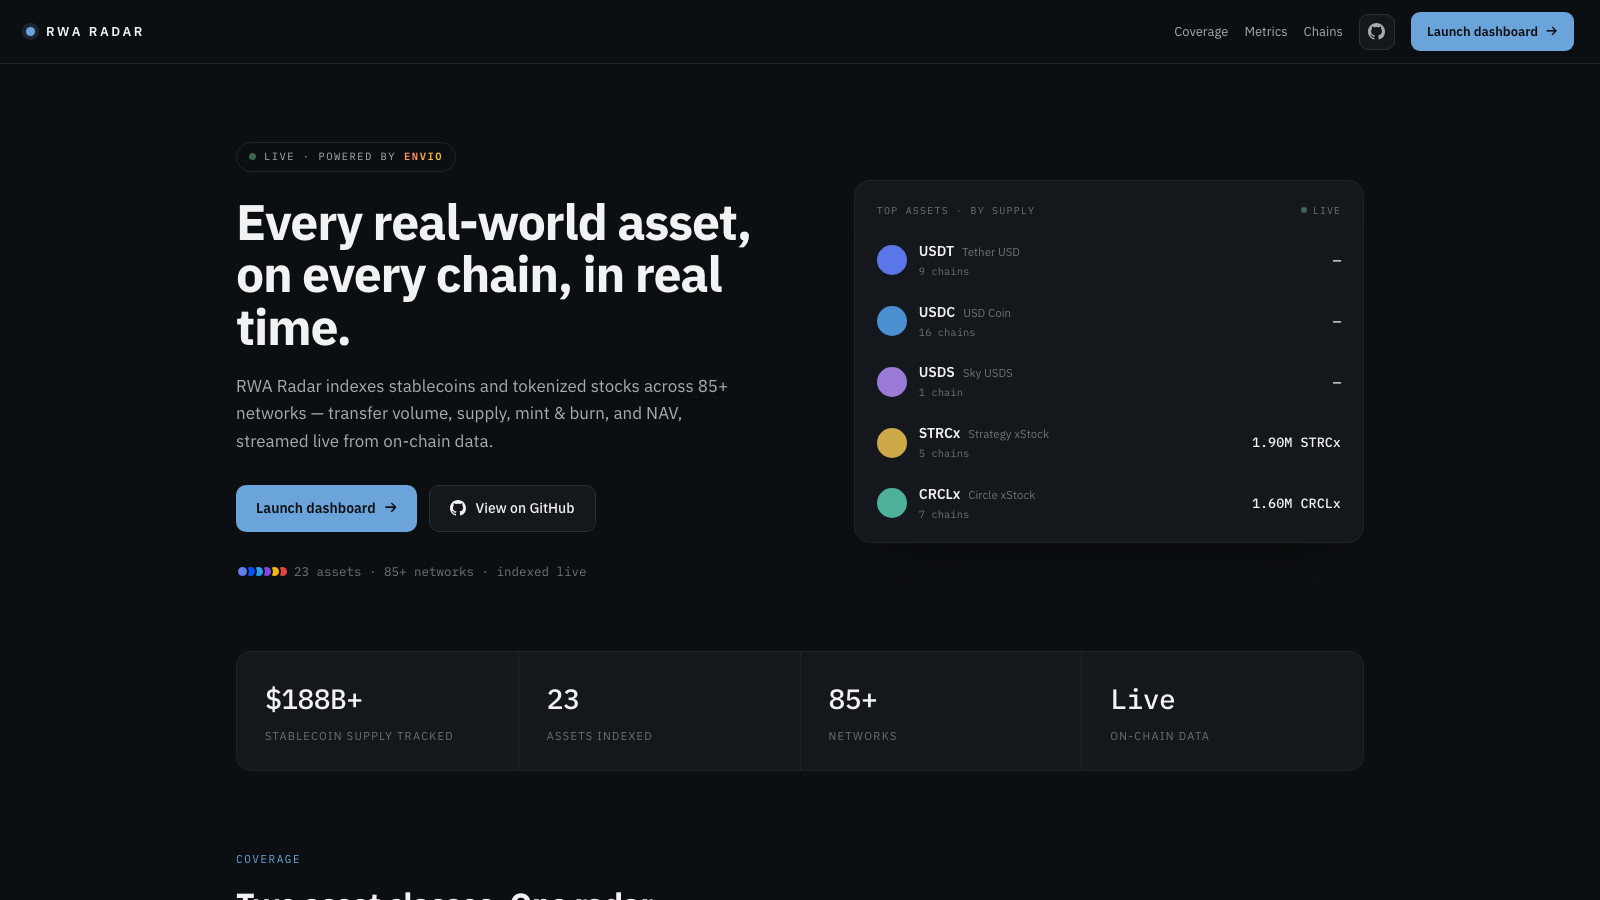
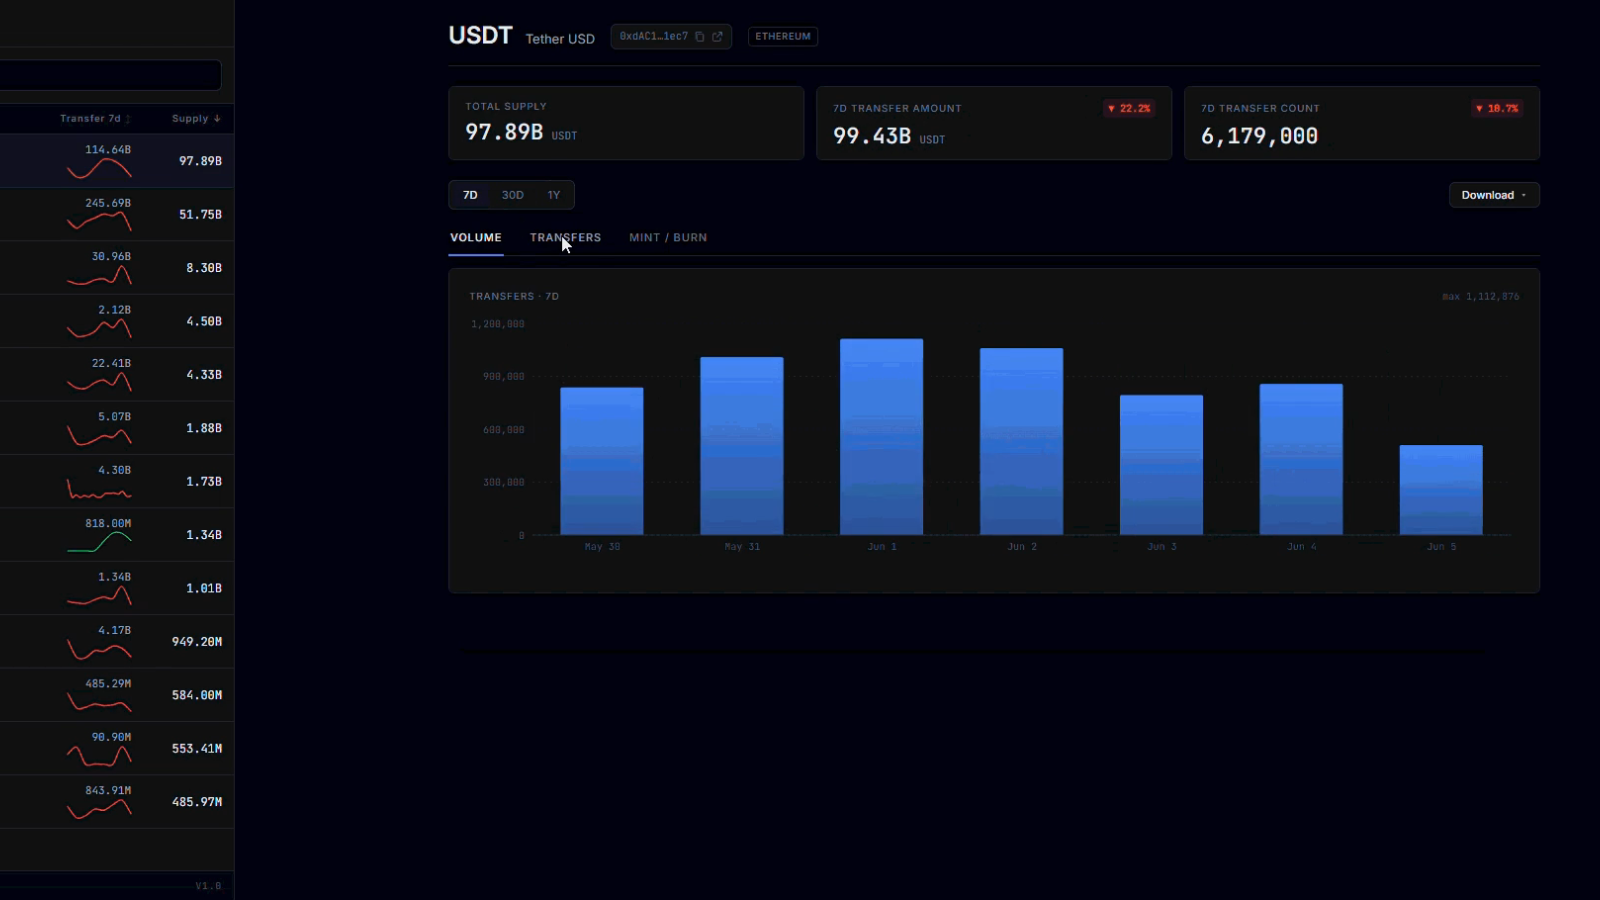
style(social): show the showcase asset alone on entry cards
Drops the logo and scrim so the card is exactly the asset the entry
displays on its page, and replaces the video posters with frames taken
from those videos rather than fresh screenshots of the live sites.

diff --git a/scripts/generate-showcase-og-images.js b/scripts/generate-showcase-og-images.js
@@ -12,9 +12,9 @@
  * referenced by src/pages/showcase/index.js. Entry slugs are restricted to
  * [a-z0-9-] below, so the leading underscore cannot collide with a real entry.
  *
- * Each card shows that entry's own showcase asset, cropped to the 1200x630 OG
- * frame with a small Envio logo over a bottom scrim, so a shared /showcase/<slug>
- * link unfurls as the project itself rather than as generic branding.
+ * Each card is that entry's own showcase asset cropped to the 1200x630 OG frame,
+ * with no branding over it, so a shared /showcase/<slug> link unfurls as the
+ * project itself rather than as generic Envio branding.
  *
  * Animated gifs are flattened to their first frame, since no social platform
  * unfurls an animation. Video entries (webm/mp4) cannot be sampled at build time
@@ -89,11 +89,6 @@ const DESC_MAX_LINES = 3;
 // stays within the 630px canvas.
 const SECTION_Y = 278;
 const TITLE_START_Y = 356;
-
-// Branding overlaid on the asset cards. The logo reuses the LOGO_* constants so
-// it sits exactly where the generated text cards put it, and the scrim behind it
-// keeps it legible no matter how light the underlying screenshot is.
-const SCRIM_HEIGHT = 170;
 
 // Showcase assets live under this prefix; anything else is rejected rather than
 // read, so a bad _data.js entry cannot pull an arbitrary file into a card.
@@ -227,22 +222,9 @@ function resolveAsset(site) {
   return fs.existsSync(abs) ? abs : null;
 }
 
-function buildOverlaySvg() {
-  return `<?xml version="1.0" encoding="UTF-8"?>
-<svg width="${WIDTH}" height="${HEIGHT}" viewBox="0 0 ${WIDTH} ${HEIGHT}" xmlns="http://www.w3.org/2000/svg" xmlns:xlink="http://www.w3.org/1999/xlink">
-  <defs>
-    <linearGradient id="scrim" x1="0" y1="0" x2="0" y2="1">
-      <stop offset="0%" stop-color="${COLOR_BG}" stop-opacity="0.95"/>
-      <stop offset="100%" stop-color="${COLOR_BG}" stop-opacity="0"/>
-    </linearGradient>
-  </defs>
-  <rect x="0" y="0" width="${WIDTH}" height="${SCRIM_HEIGHT}" fill="url(#scrim)"/>
-  <image xlink:href="${logoDataUri}" x="${LOGO_X}" y="${LOGO_Y}" width="${LOGO_W}" height="${LOGO_H}"/>
-</svg>`;
-}
-
 /**
- * The entry's screenshot cropped to the OG frame. Every showcase asset is
+ * The entry's screenshot cropped to the OG frame, with no branding over it so
+ * the project's own interface is all that shows. Every showcase asset is
  * landscape and close to 16:9, so a top-anchored cover crop into the slightly
  * wider 1200x630 frame trims the edges without cutting into the content.
  * `animated: false` takes frame one of a gif rather than the whole sequence.
@@ -250,7 +232,6 @@ function buildOverlaySvg() {
 function buildAssetCard(assetPath) {
   return sharp(assetPath, { animated: false })
     .resize(WIDTH, HEIGHT, { fit: "cover", position: "top" })
-    .composite([{ input: Buffer.from(buildOverlaySvg()), top: 0, left: 0 }])
     .png()
     .toBuffer();
 }
